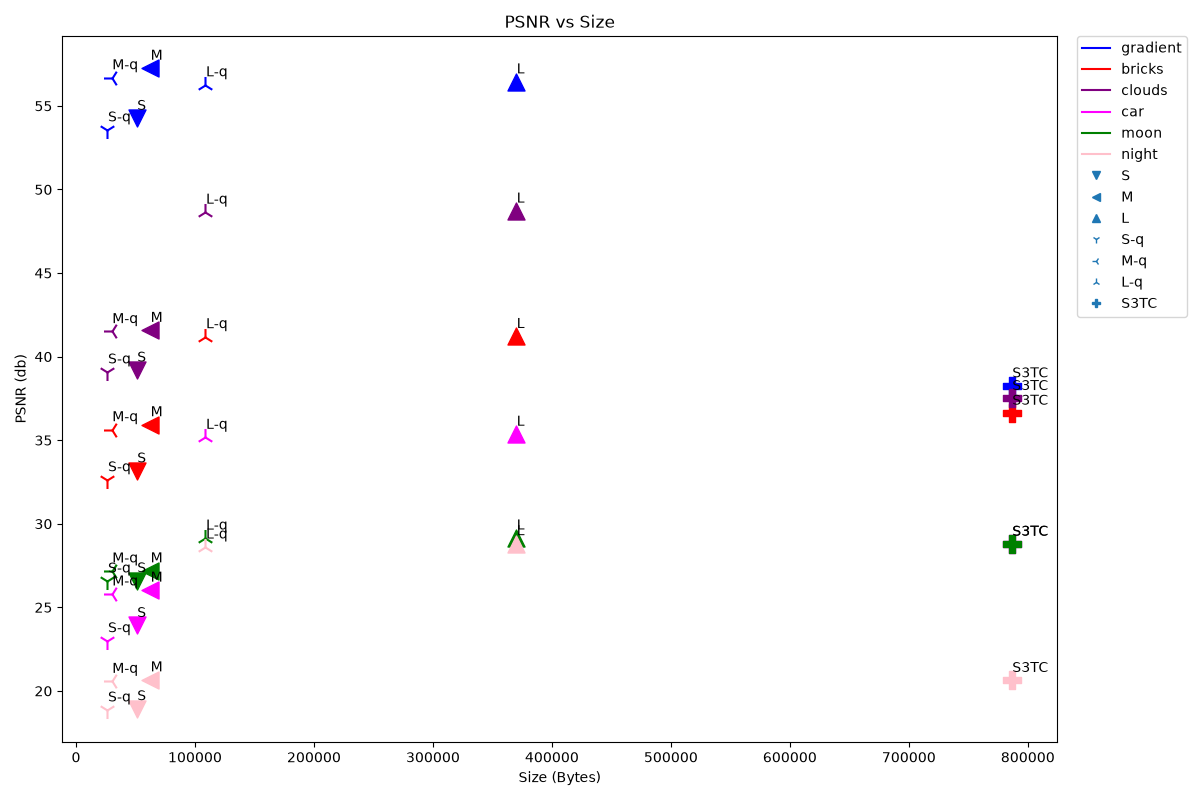
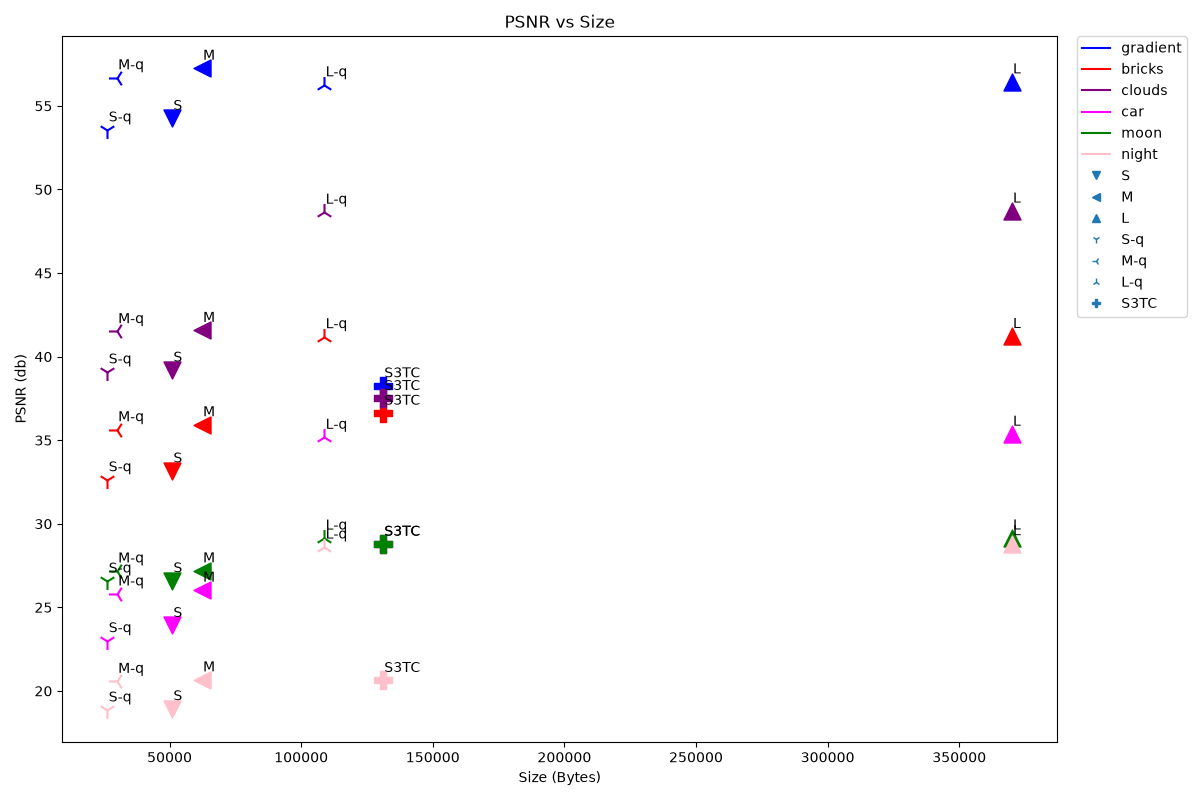
added readme

diff --git a/evaluation.py b/evaluation.py
@@ -2,7 +2,7 @@ import matplotlib.pyplot as plt
 from matplotlib.lines import Line2D
 
 all_points = [
-    ("gradient", "S3TC", 6.0, 786432, 38.26092956),
+    ("gradient", "S3TC", 6.0, 131072, 38.26092956),
     ("gradient", "S", 15.4, 50956, 54.26163101),
     ("gradient", "M", 12.6, 62220, 57.26386642),
     ("gradient", "L", 2.1, 369932, 56.44772339),
@@ -10,7 +10,7 @@ all_points = [
     ("gradient", "M-q", 26.2, 29964, 56.6919899),
     ("gradient", "L-q", 7.2, 108812, 56.27243042),
 
-    ("bricks", "S3TC", 6.0, 786432, 36.62231189),
+    ("bricks", "S3TC", 6.0, 131072, 36.62231189),
     ("bricks", "S", 15.4, 50956, 33.1704559),
     ("bricks", "M", 12.6, 62220, 35.9344101),
     ("bricks", "L", 2.1, 369932, 41.2156105),
@@ -18,7 +18,7 @@ all_points = [
     ("bricks", "M-q", 26.2, 29964, 35.63796616),
     ("bricks", "L-q", 7.2, 108812, 41.2022857),
 
-    ("clouds", "S3TC", 6.0, 786432, 37.50078965),
+    ("clouds", "S3TC", 6.0, 131072, 37.50078965),
     ("clouds", "S", 15.4, 50956, 39.20388031),
     ("clouds", "M", 12.6, 62220, 41.57991791),
     ("clouds", "L", 2.1, 369932, 48.7183570),
@@ -26,7 +26,7 @@ all_points = [
     ("clouds", "M-q", 26.2, 29964, 41.50522232),
     ("clouds", "L-q", 7.2, 108812, 48.6526641),
 
-    ("car", "S3TC", 6.0, 786432, 28.77932968),
+    ("car", "S3TC", 6.0, 131072, 28.77932968),
     ("car", "S", 15.4, 50956, 23.92092896),
     ("car", "M", 12.6, 62220, 26.0394592),
     ("car", "L", 2.1, 369932, 35.3689537),
@@ -34,7 +34,7 @@ all_points = [
     ("car", "M-q", 26.2, 29964, 25.8104038),
     ("car", "L-q", 7.2, 108812, 35.183086),
 
-    ("moon", "S3TC", 6.0, 786432, 28.7939358),
+    ("moon", "S3TC", 6.0, 131072, 28.7939358),
     ("moon", "S", 14.1, 50956, 26.59808922),
     ("moon", "M", 11.6, 62220, 27.19305038),
     ("moon", "L", 1.9, 369932, 29.1621589),
@@ -42,7 +42,7 @@ all_points = [
     ("moon", "M-q", 23.8, 29964, 27.18538094),
     ("moon", "L-q", 6.6, 108812, 29.1550293),
 
-    ("night", "S3TC", 6.0, 786432, 20.6324802),
+    ("night", "S3TC", 6.0, 131072, 20.6324802),
     ("night", "S", 7.9, 50956, 18.94382477),
     ("night", "M", 6.5, 62220, 20.67115784),
     ("night", "L", 1.1, 369932, 28.81870651),

diff --git a/main.py b/main.py
@@ -411,10 +411,10 @@ def quantize_model(model, quantize_mlp=False):
             p.data.copy_(x_hat)
 
 ###############################################################################
-#                        Neural Main Loop                                    #
+#                        Neural Main Loop                                     #
 ###############################################################################
 
-RUN_NEURAL = True
+RUN_NEURAL = False
 
 runs = [
     ("Small", (64,), 2, "-"),

diff --git a/README.md b/README.md
@@ -1,11 +1,11 @@
 # A1 Neural Texture Compression
 
-All code are in main.py. To ensure all python requirements are correctly installed, run
+All code are in main.py with the exception of the final evaluation plot which is in evaluation.py. To ensure all python requirements are correctly installed, run
 ```
 pip install -r requirements.txt
 ```
 
-## P1. Texture sampler with bilinear interpolation
+## P1. Bilinear Interpolation
 
 The bilinear sampling function is 
 ```python
@@ -13,3 +13,70 @@ def sample(u: float, v : float, img: np.ndarray)
 ```
 We are using top left corner as u, v coordinate (0,0). img is the image to interpolate on and can have any number of channels and value ranges. The returned color format will be the same as given.
 
+To run the code with downsampling, in main.py, look for 
+```python
+###############################################################################
+#                        Bilinear Main Loop                                   #
+###############################################################################
+```
+and set
+```python
+RUN_DOWNSAMPLE = True
+```
+Pay attention to the folder directory and image used.
+
+## P2. S3TC
+To run the S3TC code, in main.py, look for 
+```python
+###############################################################################
+#                           S3TC main Loop                                    #
+###############################################################################
+```
+and set 
+```python
+RUN_S3TC = True
+```
+You can change the image being compressed in the images array:
+```python
+if RUN_S3TC:
+    images = ["gradient", "bricks", "clouds", "weird_image"]
+```
+Again, be aware of the folder directory that the images are saved to.
+
+## P3-8 Neural Texture Compression
+To run the neural compression, in main.py, look for
+```python
+###############################################################################
+#                        Neural Main Loop                                     #
+###############################################################################
+```
+and set
+```python
+RUN_NEURAL = True
+```
+Running this loop would generate for each image the compressed image based on the 3 architectures and the compressed image after quantizing each feature grid. It also generates the PSNR over training loop plot for all architectures together. The final PSNR value and number of parameters in the model is also printed in the terminal for each model (both original and quantized).
+
+To change the architectures for the images, change
+```python
+runs = [
+    ("Small", (64,), 2, "-"),
+    ("Medium", (16, 32, 64), 2, "--"),
+    ("Large", (16, 32, 64, 128), 4, ":")
+]
+```
+Note that the architectures is shared across all images.
+
+To change the images, change
+```python
+images = [
+            ("gradient", "blue"),
+            ("bricks", "red"), 
+            ("clouds", "purple")
+         ]
+```
+The first value in the tuple is the name of the image and the second value is its color in the training loop plot.
+
+## P9 Evaluation
+The evaluation is generated in evaluation.py. You can directly run it and it will produce both evaluation plots (one based on raw bytes and one based on compression factor).
+
+Unfortunately, all values are hardcoded so there is no automated pipeline here to update the plots if you changed the images and architectures in the previous parts.
